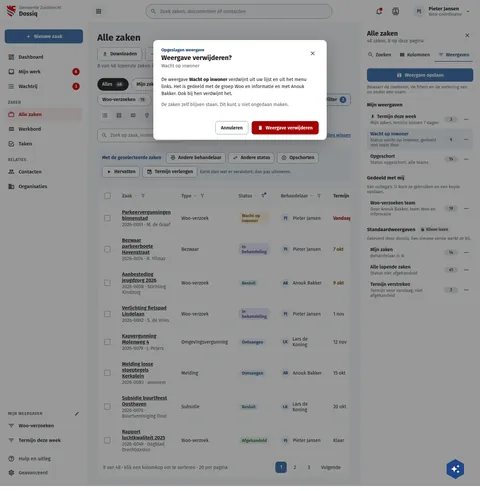
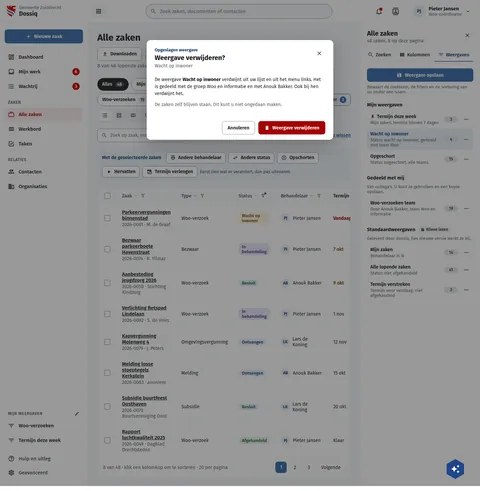
fix(screens): DqFilterVerwijderen draws the 560px confirm
The delete confirm of a saved view was drawn 520px wide; the canon
confirm width (nextcloud-vue dialog widths: confirm 560, form 640,
wizard 720) and the other confirm boards are 560. The close button was
already drawn.

Assisted-by: ClaudeCode:claude-opus-5-5

Changed region(s): [[0.2812, 0.0611, 0.7188, 0.3055]]

diff --git a/preview/screens/boards/DqFilterVerwijderen.html b/preview/screens/boards/DqFilterVerwijderen.html
@@ -438,7 +438,7 @@ a{color:var(--sc-primary, #3669a5)}a:hover{color:var(--sc-primary-deep, #234a78)
   
 
 <div style="position: absolute; inset: 0; background: rgba(27,28,29,0.45); display: flex; flex-direction: column; align-items: center; gap: 20px; padding: 120px 16px 24px; box-sizing: border-box; font-family: var(--sc-font, 'Fira Sans'), system-ui, sans-serif; color: var(--sc-work-ink, #1b1c1d)">
-  <div role="dialog" aria-modal="true" aria-labelledby="fd-kop" style="width: 100%; max-width: 520px; background: #ffffff; border-radius: 12px; box-shadow: 0 16px 48px rgba(27,28,29,0.28); display: flex; flex-direction: column">
+  <div role="dialog" aria-modal="true" aria-labelledby="fd-kop" style="width: 100%; max-width: 560px; background: #ffffff; border-radius: 12px; box-shadow: 0 16px 48px rgba(27,28,29,0.28); display: flex; flex-direction: column">
     <div style="display: flex; justify-content: space-between; align-items: flex-start; gap: 16px; padding: 22px 24px 4px">
       <div style="display: flex; flex-direction: column; gap: 4px"><span style="font-size: 13px; font-weight: 700; color: var(--sc-primary-deep, #234a78)">Opgeslagen weergave</span><h2 id="fd-kop" style="margin: 0; font-size: 20px; font-weight: 700">Weergave verwijderen?</h2><span style="font-size: 14px; color: var(--sc-work-muted, #5e6168)">Wacht op inwoner</span></div>
       <button type="button" aria-label="Sluiten" style="flex: none; width: 36px; height: 36px; display: inline-flex; align-items: center; justify-content: center; border: 0; border-radius: 18px; background: transparent; color: var(--sc-work-text, #3d4047)"><svg width="20" height="20" viewbox="0 0 24 24" fill="currentColor" aria-hidden="true"><path d="M19,6.41L17.59,5L12,10.59L6.41,5L5,6.41L10.59,12L5,17.59L6.41,19L12,13.41L17.59,19L19,17.59L13.41,12L19,6.41Z"></path></svg></button>

diff --git a/screens-src/zuiddrecht/FilterDialoog.dc.html b/screens-src/zuiddrecht/FilterDialoog.dc.html
@@ -101,7 +101,7 @@ class Component extends DCLogic {
       verwijderen: ['Weergave verwijderen?', name]
     };
     const [heading, intro] = headings[kind] ?? headings.delen;
-    const dialogStyle = 'width: 100%; max-width: ' + (kind === 'verwijderen' ? '520px' : '640px') + '; background: #ffffff; border-radius: 12px; box-shadow: 0 16px 48px rgba(27,28,29,0.28); display: flex; flex-direction: column';
+    const dialogStyle = 'width: 100%; max-width: ' + (kind === 'verwijderen' ? '560px' : '640px') + '; background: #ffffff; border-radius: 12px; box-shadow: 0 16px 48px rgba(27,28,29,0.28); display: flex; flex-direction: column';
     const avatar = (group) => 'flex: none; width: 32px; height: 32px; border-radius: 16px; display: inline-flex; align-items: center; justify-content: center; font-size: 12px; font-weight: 700; ' + (group ? 'background: #e4e6ea; color: #3d4047;' : 'background: #eaf0f7; color: #234a78;');
     const optStyle = (on) => 'display: flex; align-items: center; gap: 12px; min-height: 44px; padding: 4px 8px; border-radius: 8px; cursor: pointer; ' + (on ? 'background: #eaf0f7;' : 'background: transparent;');
     const suggestions = [
